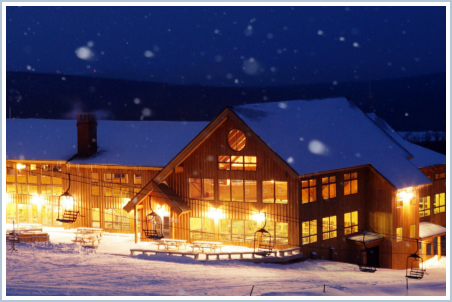
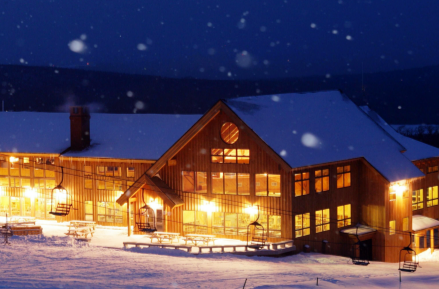
changin images

diff --git a/styles/style.css b/styles/style.css
@@ -361,7 +361,8 @@ nav ul li a{
 }
 
 .list-item img{
-    /* width: 50%; */
+    border: 2px solid rgba(179, 199, 215, 1);
+    padding: 4px;
 }
 
 .pdf-icon{
@@ -592,6 +593,7 @@ footer{
 
     .list-item img{
         width: 100%;
+       
     }
 
     .latest-update-title{
